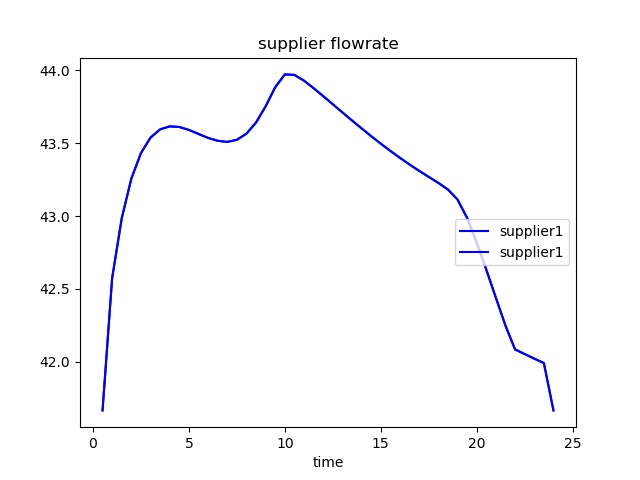
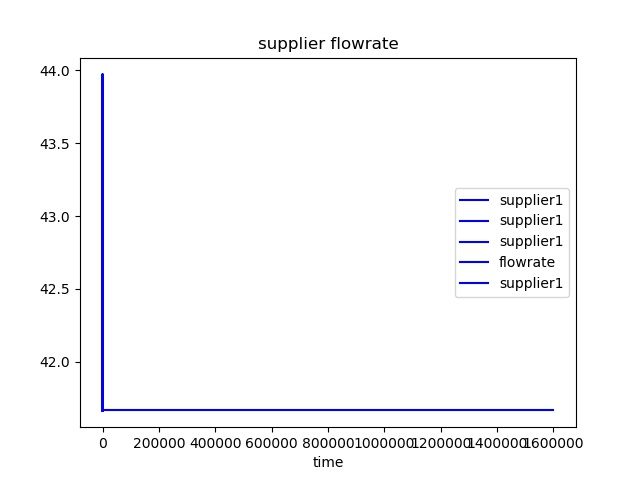
some simplification

diff --git a/pdegas.py b/pdegas.py
@@ -187,14 +187,14 @@ def powereq_rule(m,j,i,t):
 model.powereq = Constraint(model.SCEN,model.LINK_A,model.TIME,rule=powereq_rule)
 
 # cvar model
-model.cvar_lambda = Param(within=NonNegativeReals)
-model.nu = Var(initialize=100.0)
-model.phi = Var(model.SCEN,bounds=(0.0,None),initialize=100.0)
+# model.cvar_lambda = Param(within=NonNegativeReals)
+# model.nu = Var(initialize=100.0)
+# model.phi = Var(model.SCEN,bounds=(0.0,None),initialize=100.0)
 
 
-def cvarcost_rule(m):
-    return (1.0/m.S)*sum((m.phi[k]/(1.0-0.95) + m.nu) for k in m.SCEN)
-model.cvarcost = Expression(rule=cvarcost_rule)
+# def cvarcost_rule(m):
+#     return (1.0/m.S)*sum((m.phi[k]/(1.0-0.95) + m.nu) for k in m.SCEN)
+# model.cvarcost = Expression(rule=cvarcost_rule)
 
 # node balances
 def nodeeq_rule(m,k,i,t):
@@ -275,20 +275,20 @@ def pres_ss_rule(m,j,i,k):
 model.pres_ss = Constraint(model.SCEN,model.LINK,model.DIS,rule=pres_ss_rule)
 
 # non-anticipativity constraints
-def nonantdq_rule(m,j,i,t):
-    if j == 1:
-        return Constraint.Skip
-    if t >= m.TDEC+1:
-        return Constraint.Skip
-    return m.dp[j,i,t] == m.dp[1,i,t]
+# def nonantdq_rule(m,j,i,t):
+#     if j == 1:
+#         return Constraint.Skip
+#     if t >= m.TDEC+1:
+#         return Constraint.Skip
+#     return m.dp[j,i,t] == m.dp[1,i,t]
+#
+# model.nonantdq = Constraint(model.SCEN,model.LINK_A,model.TIME,rule=nonantdq_rule)
 
-model.nonantdq = Constraint(model.SCEN,model.LINK_A,model.TIME,rule=nonantdq_rule)
-
-def nonantde_rule(m,j,i,t):
-    if j == 1:
-        return Constraint.Skip
-    if t >= m.TDEC+1:
-        return Constraint.Skip
-    return m.dem[j,i,t] == m.dem[1,i,t]
-
-model.nonantde = Constraint(model.SCEN,model.DEM,model.TIME,rule=nonantde_rule)
+# def nonantde_rule(m,j,i,t):
+#     if j == 1:
+#         return Constraint.Skip
+#     if t >= m.TDEC+1:
+#         return Constraint.Skip
+#     return m.dem[j,i,t] == m.dem[1,i,t]
+#
+# model.nonantde = Constraint(model.SCEN,model.DEM,model.TIME,rule=nonantde_rule)

diff --git a/run_pdegas.py b/run_pdegas.py
@@ -45,9 +45,9 @@ def mcost_rule(m):
     return (1.0/m.S)*sum(m.cost[k] for k in m.SCEN)
 instance.mcost = Expression(rule=mcost_rule)
 
-def eqcvar_rule(m,k):
-    return m.cost[k] - m.nu <= m.phi[k];
-instance.eqcvar = Constraint(instance.SCEN,rule=eqcvar_rule)
+# def eqcvar_rule(m,k):
+#     return m.cost[k] - m.nu <= m.phi[k];
+# instance.eqcvar = Constraint(instance.SCEN,rule=eqcvar_rule)
 
 #def obj_rule(m):
 #    return (1.0-m.cvar_lambda)*m.mcost + m.cvar_lambda*m.cvarcost
@@ -79,16 +79,33 @@ for i in instance.SCEN:
                for k in instance.TIME.get_finite_elements()) ))
 
 time = []
+dis = []
 s1 = []
-
+f0 = []
+xdis = 0
 for t in instance.TIME:
     time.append(t)
     s1.append(value(instance.s[1,1,t]))
-import pylab
-pylab.plot(time,s1,'b',label='supplier1')
-pylab.title('supplier flowrate')
-pylab.xlabel('time')
-pylab.legend(loc='right')
-pylab.savefig("supplier-time.jpg")
 
-#re_num = fx*Diameter/(viscosity*Area)
+for line in instance.LINK:
+    length = value(instance.llength[line])
+    for x in instance.DIS:
+        xdis = xdis + length*value(x)
+        dis.append(xdis)
+        f0.append(value(instance.fx[1,line,24,x]))
+
+
+# import pylab
+# pylab.plot(time,s1,'b',label='supplier1')
+# pylab.title('supplier flowrate')
+# pylab.xlabel('time')
+# pylab.legend(loc='right')
+# pylab.savefig("supplier-time.jpg")
+
+# import matplotlib.pyplot as plt
+# plt.figure(1)
+# plt.subplot(111)
+# plt.plot(dis,f0)
+# plt.title('flowrate vs distance')
+# plt.xlabel('distance')
+# plt.savefig("flowrate-distance.jpg")
